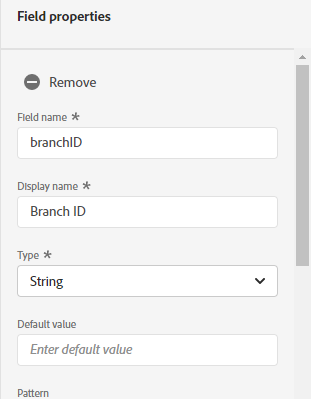
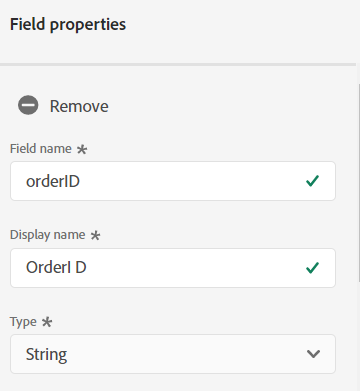
SchemaUpdate

diff --git a/labs/fsi/Foundations/Schemas.md b/labs/fsi/Foundations/Schemas.md
@@ -1,5 +1,5 @@
-Lab  - Build a Transactions schema (ExperienceEvent)
-==========
+# Lab - Build a Transactions schema (ExperienceEvent)
+
 <table style="border-collapse: collapse; border: none;" class="tab" cellspacing="0" cellpadding="0">
 
 <tr style="border: none;">
@@ -50,172 +50,103 @@ Lab  - Build a Transactions schema (ExperienceEvent)
 
 Go to [https://platform.adobe.com/home](https://platform.adobe.com/home). Follow the instructions detailed below.
 
-Instructions:
------------------
+## Instructions:
+
 1. In the left-hand menu, navigate to "Schemas"
 
 
       ![Demo](./images/schemahome.png)
-      
-      
+
 2. Click "Create Schema" on the top right
 
 
       ![Demo](./images/schemacreate.png)
-      
-      
+
 3. Click on "Untitled Schema" in the structure view
 
 
-    <!---
-    ![Demo](./images/schemaname.png)
-    --->
-
     <kbd><img src="./images/schemaname.png"  /></kdb>
 
-
-      
-      
 4. In the right-hand menu, name it "Transactions Schema [your-assigned-number]" (Description is optional)
-      
-      
-      ![Demo](./images/schemaname1.png)
-      
-      
+   ![Demo](./images/schemaname1.png)
 5. In the left-hand schema composition menu, click on the "Assign" button across from Class
 
+   <kbd><img src="./images/schemaclassassign.png"  /></kdb>
 
-    <!---
-    ![Demo](./images/schemaclassassign.png)
-    --->
 
-    <kbd><img src="./images/schemaclassassign.png"  /></kdb>
-
-      
-      
     Here's where you can choose your base level schema behavior:
     - Time-based Events (ExperienceEvent)
     - Customer Snapshots (Profile)
-     
-     
+
+
       ![Demo](./images/schemaclass.png)
-      
-      
+
+
       Note: There are other classes available out of the box that represent specific objects needed for Experience Modeling.
 
 6. In this example, choose "XDM ExperienceEvent" and click "Assign class"
 
 
       ![Demo](./images/schemaclass1.png)
-      
-      
+
 7. Now, click on the "Add" button across from "Mixins" on the left panel
 
 
-    <!---
-    ![Demo](./images/schemamixin.png)
-    --->
-
     <kbd><img src="./images/schemamixin.png"  /></kdb>
 
-      
-      
+
       Here's where you can build your own Mixin or use a prior/similar Mixin object that conforms to your data.
-      
-8. There are many out of the box Mixins already available. 
 
+8. In this lab, we will be adding two pre-built mixins listed below:
 
-      ![Demo](./images/schemamixinpreview.png)
-      
-     Click on an Adobe pre-built Mixin and hit the "Preview mixin structure" option on the right-hand side to see it's contents of a Mixin
-      
-      
-      ![Demo](./images/schemamixinpreview1.png)
-    
-    
-9. Hit Back to get back to the list of Mixins. 
+   - Identities Mixin EE
+   - Transaction Details Mixin EE
 
+   Search for 'Identities Mixin EE'. Select the mixin and click "Assign Mixin".
 
-      ![Demo](./images/schemamixinback.png)
-      
-      
-10. In this lab, we will be adding one pre-built mixins listed below:
-
-      - Identities Mixin EE
-      
-      Search for 'Identities Mixin EE'. Select the mixin and click "Assign Mixin".
-            
-      Your schema will now have the identification object and all of the fields within this object.
+   Your schema will now have the identification object and all of the fields within this object.
 
 
       <kbd><img src="./images/schemamixin2.png"  /></kdb>
-             
-             
+
+
       Hit +Add to go back to the Mixin list
-      
-      
-       <!---
-       ![Demo](./images/schemamixin3.png)
-       --->
 
-       <kbd><img src="./images/schemamixin3.png"  /></kdb>     
-      
-             
-             
+
+       <kbd><img src="./images/schemamixin3.png"  /></kdb>
+
+
+
       Repeat the steps for 'Identities Mixin EE' mixin
-      
-      
+
+
        ![Demo](./images/schemamixin4.png)
-             
-             
-        
-11. Now, we'll also create a new Mixin from scratch. Go back and hit the +Add button on the left panel.
 
-       <!---
-       ![Demo](./images/schemamixin6.png)
-       --->
+9. Now, we'll also create a new Mixin from scratch. Go back and hit the +Add button on the left panel.
 
-       <kbd><img src="./images/schemamixin6.png"  /></kdb>    
-       
-      
-      
-12. Click "Create new mixin" at the top.
+   <kbd><img src="./images/schemamixin6.png"  /></kdb>
+
+10. Click "Create new mixin" at the top.
 
 
       ![Demo](./images/schemamixin7.png)
-      
-      
-13. Enter "Transactions Details Mixin [your-assigned-number]" as the "Display name" and click "Add Mixin".
-      
-      
+
+13. Enter "Order Details Mixin EE [your-assigned-number]" as the "Display name" and click "Add Mixin".
     ![Demo](./images/schemamixin8.png)
-     
-     
-     
 14. In the left-hand schema composition menu, click on your newly create Mixin (it should be highlighted now)
 
 
-    <!---
-    ![Demo](./images/schemamixin9.png)
-    --->
+    <kbd><img src="./images/schemamixin9.png"  /></kdb>
 
-    <kbd><img src="./images/schemamixin9.png"  /></kdb>   
-       
-
-15. Notice that on the Structure view a '+Add Field' appears next to the Schema name, Click it to start adding fields 
+15. Notice that on the Structure view a '+Add Field' appears next to the Schema name, Click it to start adding fields
 
 
-    <!---
-    ![Demo](./images/schemamixin10.png)
-    --->
-
-    <kbd><img src="./images/schemamixin10.png"  /></kdb>   
-
+    <kbd><img src="./images/schemamixin10.png"  /></kdb>
 
 16. On the Field Properties panel to the right add the following  
-      FieldName = transactionDetails
-      Description = Transaction Details
-      Type = Object
+     FieldName = orderDetails
+    Description = Order Details
+    Type = Object
 
 
     ![Demo](./images/schemamixin11.png)
@@ -226,21 +157,14 @@ Instructions:
 
     ![Demo](./images/schemaapply.png)
 
+17. Next, we will be adding fields to the 'orderDetails' object Click "+Add Field" next to this object
 
-17. Next, we will be adding fields to the 'transactionDetails' object Click "+Add Field" next to this object
+    <kbd><img src="./images/schemamixin12.png"  /></kdb>
 
-    <!---
-    ![Demo](./images/schemamixin12.png)
-    --->
-
-    <kbd><img src="./images/schemamixin12.png"  /></kdb>   
-
-
-
-18. On the Field Properties panel to the right add the following  
-      FieldName = transactionID
-      Description = Transaction ID
-      Type = String
+18) On the Field Properties panel to the right add the following  
+     FieldName = orderFlag
+    Description = Order Flag
+    Type = Integer
 
 
      ![Demo](./images/schemamixin13.png)
@@ -251,22 +175,15 @@ Instructions:
 
     ![Demo](./images/schemaapply.png)
 
+19. We will be adding one more field to the 'orderDetails' object Click "+Add Field" next to this object
 
-19. We will be adding one more field to the 'transactionDetails' object Click "+Add Field" next to this object
-
-    <!---
-    ![Demo](./images/schemamixin12.png)
-    --->
 
     <kbd><img src="./images/schemamixin12.png"  /></kdb>
 
-
-
 20. On the Field Properties panel to the right add the following  
-      FieldName = branchID
-      Description = Branch ID
-      Type = String
-
+     FieldName = orderID
+    Description = Order ID
+    Type = String
 
     ![Demo](./images/schemamixin14.png)
 
@@ -275,24 +192,33 @@ Instructions:
 
 
     ![Demo](./images/schemaapply.png)
-    
-    
- 21. We are done with modeling the schema. To Save your work hit Save on the top right corner. Make sure that your schema structure looks like the one in the screenshot below
- 
 
-     <!---
-     ![Demo](./images/schemafinal.png)
-     --->
-     <kbd><img src="./images/schemafinal.png"  /></kdb>
+19. Next, We will be adding our final field to the 'orderDetails' object Click "+Add Field" next to this object
 
- 
- 
- 22. Congratulations!!! you have constructed your schema.
- 
+    <kbd><img src="./images/schemamixin15.png"  /></kdb>
+
+20. On the Field Properties panel to the right add the following  
+     FieldName = orderType
+    Description = Order Type
+    Type = String
+
+
+    ![Demo](./images/6.png)
+
+
+    Scroll down and hit Apply
+
+
+    ![Demo](./images/schemaapply.png)
+
+21. We are done with modeling the schema. To Save your work hit Save on the top right corner. Make sure that your schema structure looks like the one in the screenshot below
+
+    <kbd><img src="./images/schemafinal.png"  /></kdb>
+
+22. Congratulations!!! you have constructed your schema.
+
 <br>
 <br>
 <br>
-
 
 Return to [Lab Agenda Directory](https://github.com/adobe/AEP-Hands-on-Labs/blob/master/labs/fsi/README.md#lab-agenda)
-
